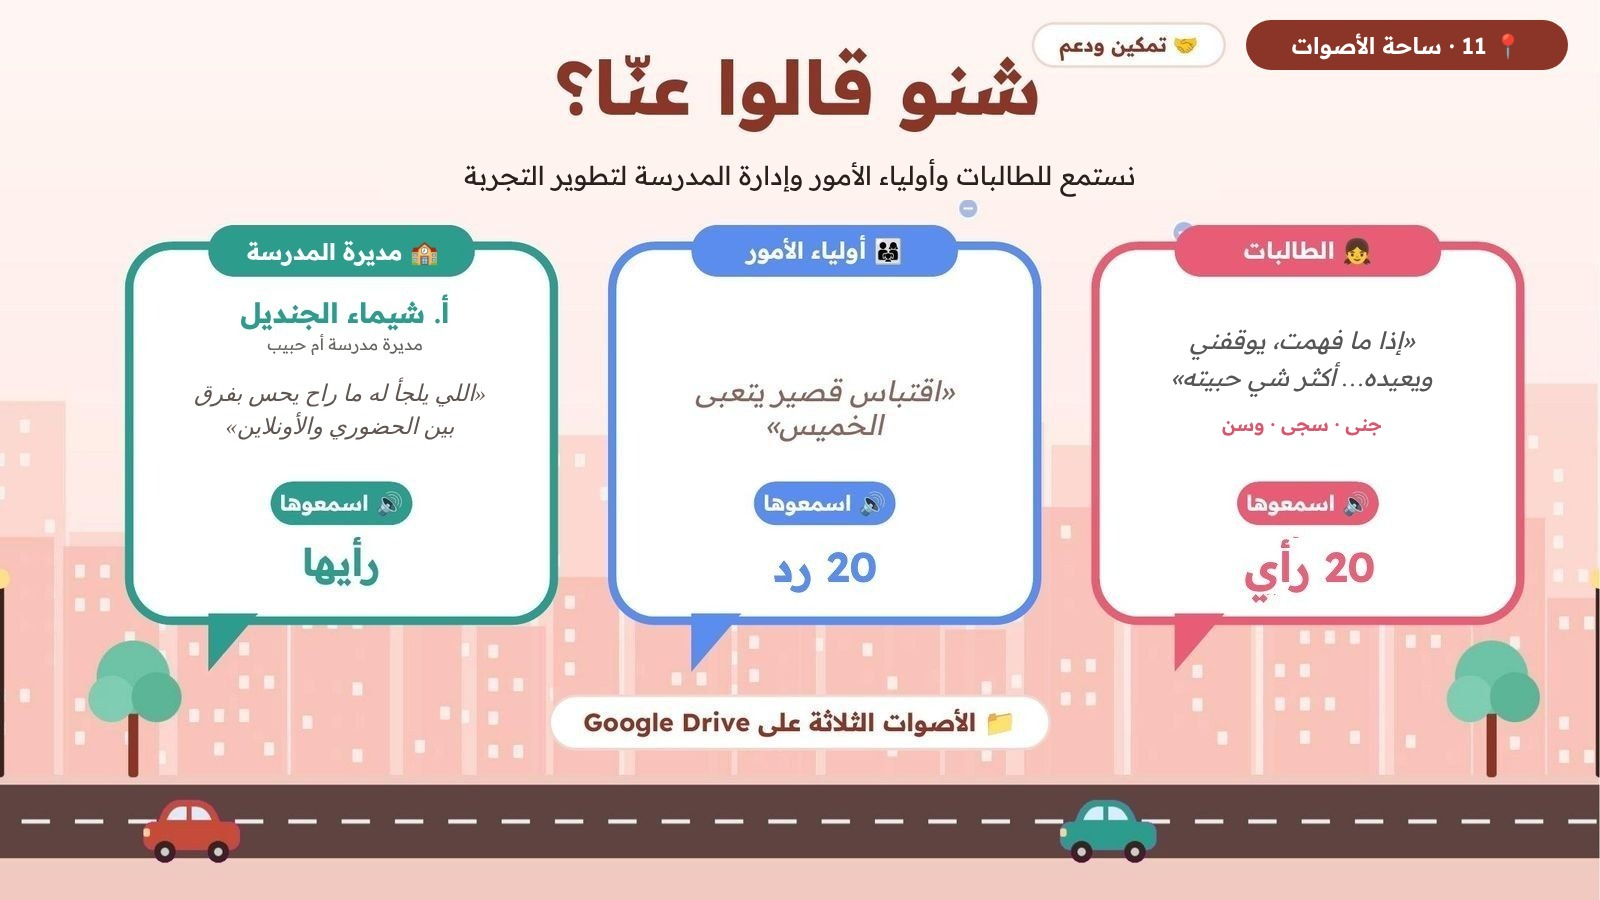
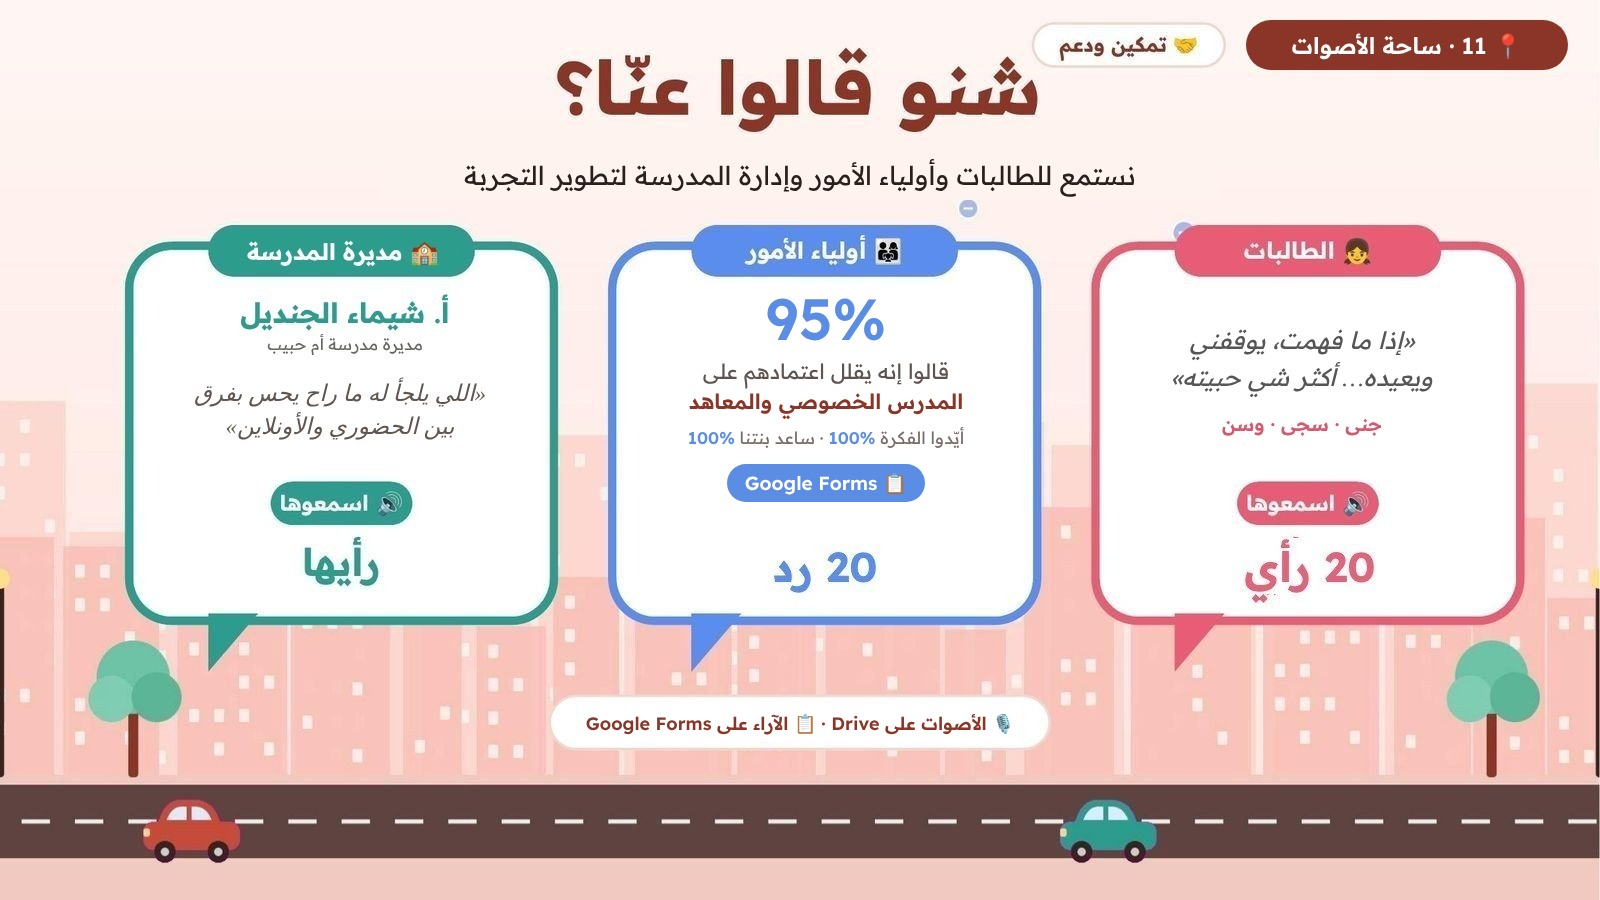
سلايد 11: كرت أولياء الأمور بنتايج Google Forms الحقيقية (20 رد، 95% يقلل الاعتماد على الخصوصي)
Claude-Session: https://claude.ai/code/session_017v5M1nEnXeKxMNFSgYgY9j

Changed region(s): [[0.4375, 0.4044, 0.625, 0.5911], [0.3438, 0.7778, 0.6562, 0.84], [0.4688, 0.3111, 0.5625, 0.3733]]

diff --git a/_src/voices/s11-parents.html b/_src/voices/s11-parents.html
@@ -1,0 +1,26 @@
+<!doctype html><html dir="rtl" lang="ar"><head><meta charset="utf-8"><style>
+@font-face{font-family:R;font-weight:400;src:url(/tmp/claude-0/-home-claude/7884dbee-0484-5500-9032-b9a9ee253dee/scratchpad/deck/node_modules/@fontsource/readex-pro/files/readex-pro-arabic-400-normal.woff2)}
+@font-face{font-family:R;font-weight:600;src:url(/tmp/claude-0/-home-claude/7884dbee-0484-5500-9032-b9a9ee253dee/scratchpad/deck/node_modules/@fontsource/readex-pro/files/readex-pro-arabic-600-normal.woff2)}
+@font-face{font-family:R;font-weight:400;src:url(/tmp/claude-0/-home-claude/7884dbee-0484-5500-9032-b9a9ee253dee/scratchpad/deck/node_modules/@fontsource/readex-pro/files/readex-pro-latin-400-normal.woff2);unicode-range:U+0000-00FF,U+2000-206F}
+@font-face{font-family:R;font-weight:600;src:url(/tmp/claude-0/-home-claude/7884dbee-0484-5500-9032-b9a9ee253dee/scratchpad/deck/node_modules/@fontsource/readex-pro/files/readex-pro-latin-600-normal.woff2);unicode-range:U+0000-00FF,U+2000-206F}
+*{margin:0;box-sizing:border-box}html,body{width:1600px;height:900px;background:transparent;font-family:R,'Noto Color Emoji',sans-serif}
+.wipe{position:absolute;left:632px;top:284px;width:388px;height:250px;background:#fff}
+.box{position:absolute;left:632px;top:290px;width:388px;text-align:center}
+.big{font-size:58px;font-weight:600;color:#5b8de4;line-height:1}
+.t{font-size:21px;color:#5e534f;line-height:1.45;margin-top:8px}
+.t b{color:#8b3528;font-weight:600}
+.s{font-size:17px;color:#7a6b66;margin-top:10px}
+.s b{color:#5b8de4}
+.chip{display:inline-flex;align-items:center;gap:8px;margin-top:16px;padding:7px 18px;border-radius:24px;background:#5b8de4;color:#fff;font-weight:600;font-size:19px}
+.pw{position:absolute;left:580px;top:704px;width:440px;height:38px;background:#fff}
+.pill{position:absolute;left:580px;top:704px;width:440px;height:38px;display:flex;align-items:center;justify-content:center;font-size:18px;font-weight:600;color:#8b3528;white-space:nowrap}
+</style></head><body>
+<div class="wipe"></div>
+<div class="box">
+<div class="big">95%</div>
+<div class="t">قالوا إنه يقلل اعتمادهم على<br><b>المدرس الخصوصي والمعاهد</b></div>
+<div class="s">أيّدوا الفكرة <b dir="ltr">100%</b> · ساعد بنتنا <b dir="ltr">100%</b></div>
+<div class="chip">📋 Google Forms</div>
+</div>
+<div class="pw"></div><div class="pill">🎙 الأصوات على Drive · 📋 الآراء على Google Forms</div>
+</body></html>
